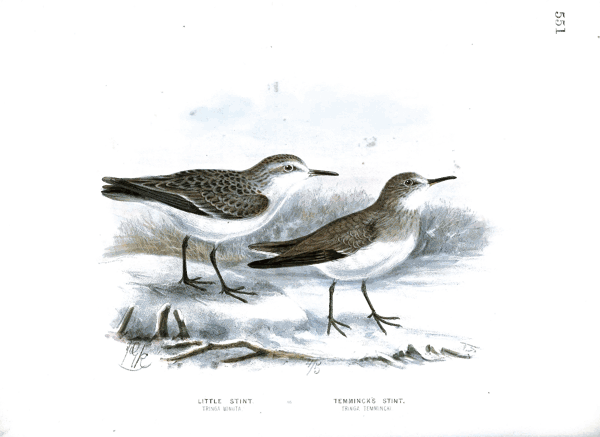
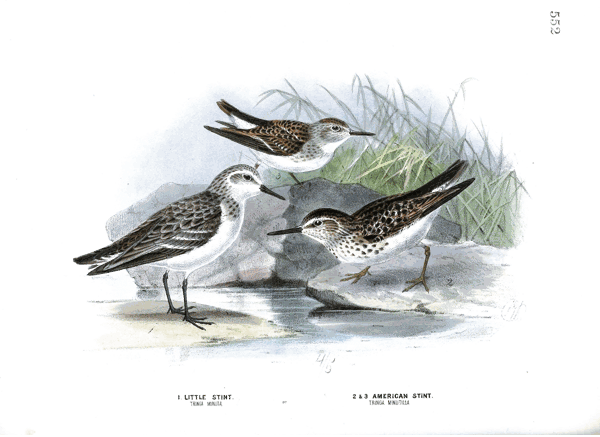
Attribute multi-species plates to every species they depict
Some plates show several species (e.g. "1. House Sparrow 2. Tree Sparrow",
"Buffon's & Richardson's Skua"). Previously the whole plate was attributed to a
single species, so the others never got it. Now:

- plate_multi.json maps each such caption to ALL the eBird codes it depicts; the
  plate is attributed to each, tagged "multi" in the manifest.
- emit prefers a single-species plate over a multi-species one within a book.
- app.js prefers a clean single-species plate from either book and only shows
  the whole (multi-species) plate when no single one exists for that species.

Coverage 411 -> 413 species. 8 plates now serve multiple species.

Claude-Session: https://claude.ai/code/session_01QE9YmeK2n7PbSUUJKRUAzz

diff --git a/docs/app.js b/docs/app.js
@@ -194,10 +194,18 @@
     var p = S.plates[code];
     if (p) {
       var order = S.src === "dresser" ? ["dresser", "gould"] : ["gould", "dresser"];
+      // Prefer a single-species plate (from either book, in source order); only
+      // fall back to a multi-species plate — which shows the whole plate, other
+      // species included — when no clean single one exists for this species.
+      var single = null, whole = null;
       for (var i = 0; i < order.length; i++) {
         var e = p[order[i]];
-        if (e) return { src: e.img, id: e.img, flip: true, face: e.face };
+        if (!e) continue;
+        if (e.multi) { whole = whole || e; }
+        else { single = e; break; }
       }
+      var pick = single || whole;
+      if (pick) return { src: pick.img, id: pick.img, flip: true, face: pick.face };
     }
     return ai();
   }

diff --git a/scripts/match_plates.py b/scripts/match_plates.py
@@ -26,6 +26,7 @@ TAX = os.path.join(ROOT, "docs", "taxonomy.csv")
 SELECTED = os.path.join(HERE, "selected_species.txt")
 OUT_DIR = os.path.join(ROOT, "docs", "plates")
 ALIASES = os.path.join(HERE, "plate_aliases.json")
+MULTI = os.path.join(HERE, "plate_multi.json")
 
 
 # eBird common-name qualifiers; stripping them lets a plate's old short name
@@ -95,6 +96,21 @@ def load_aliases(allowed=None):
         if allowed is not None and r["code"] not in allowed:
             continue
         out[(r.get("sci", ""), r.get("common", ""))] = r["code"]
+    return out
+
+
+def load_multi(allowed=None):
+    """Plates that depict several species (e.g. "1. House Sparrow 2. Tree
+    Sparrow"): the whole plate is attributed to EACH species it shows, so
+    whichever one the model flags, the plate appears. Keyed by (normalised
+    caption_sci, cleaned caption_common) -> list of eBird codes."""
+    if not os.path.exists(MULTI):
+        return {}
+    out = {}
+    for r in json.load(open(MULTI, encoding="utf-8")):
+        codes = [c for c in r["codes"] if allowed is None or c in allowed]
+        if codes:
+            out[(r.get("sci", ""), r.get("common", ""))] = codes
     return out
 
 
@@ -201,19 +217,32 @@ def main():
                 if ln.strip()}
     sci2code, com2code, strip2code, compact2code = load_taxonomy(allowed=selected)
     aliases = load_aliases(allowed=selected)
+    multi = load_multi(allowed=selected)
     com_keys = list(com2code)
     sci_keys = [k for k in sci2code if " " in k]
 
-    # code -> {gould: [rows], dresser: [rows]}
+    # code -> {gould: [rows], dresser: [rows]}.  A multi-species plate is added
+    # to every species it depicts; each row is tagged "_nspecies" so emit can
+    # prefer a clean single-species plate when one exists.
     by_code = {}
     stats = {}
     for book in ("gould", "dresser"):
         rows = read_plates(book)
         hit = 0
         for r in rows:
+            mkey = (norm(r.get("species_sci")),
+                    _clean_common(norm(r.get("species_common"))))
+            codes = multi.get(mkey)
+            if codes:
+                r["_nspecies"] = len(codes)
+                for code in codes:
+                    by_code.setdefault(code, {}).setdefault(book, []).append(r)
+                hit += 1
+                continue
             code, how = match(r, sci2code, com2code, strip2code, compact2code,
                               sci_keys, com_keys, aliases)
             if code:
+                r["_nspecies"] = 1
                 hit += 1
                 by_code.setdefault(code, {}).setdefault(book, []).append(r)
         stats[book] = (len(rows), hit)
@@ -244,10 +273,12 @@ def main():
             rows = books.get(book)
             if not rows:
                 continue
-            # the plate with the highest colourfulness (most vivid/complete)
-            best = max(rows, key=lambda r: float(r.get("colorfulness") or 0))
+            # prefer a single-species plate; then the most vivid/complete one
+            best = min(rows, key=lambda r: (int(r.get("_nspecies", 1)),
+                                            -float(r.get("colorfulness") or 0)))
             if not (best.get("identifier") and str(best.get("leaf"))):
                 continue
+            nsp = int(best.get("_nspecies", 1))
             entry[book] = {
                 "img": f"plates/{book}/{code}.png",
                 "leaf": best["leaf"], "volume": best["volume"],
@@ -255,6 +286,8 @@ def main():
                 "sci": best.get("species_sci", ""),
                 "common": best.get("species_common", ""),
             }
+            if nsp > 1:
+                entry[book]["multi"] = True   # plate also shows other species
             tasks.append((code, book, best["identifier"], best["leaf"], args.max_edge))
         if entry:
             manifest[code] = entry